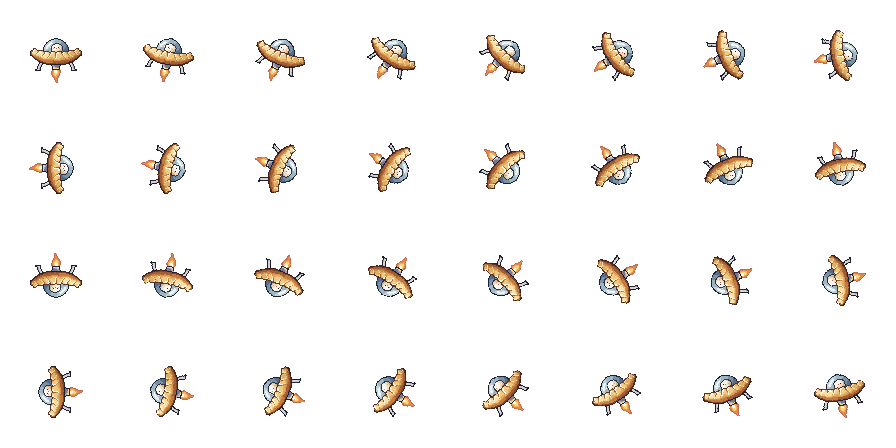
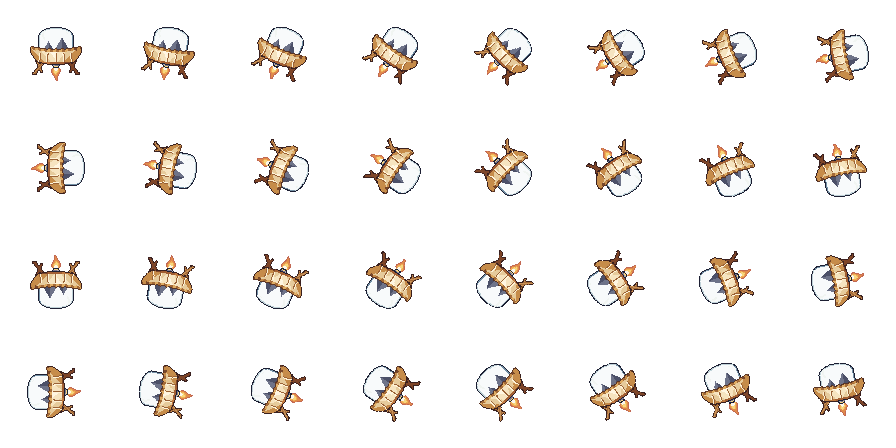
art(ship): v3 hero ship redrawn from the player's original design, refined
- art-src/ship/scripts/draw_ship_v3.py: tall clear glass dome with cockpit peaks, crimped bowl hull, X legs, nozzle stub (same 64x80 / pivot 32,34 contract)
- regenerated 32-angle RotSprite sheets for all 9 frames; memory postcard re-stamped with the new ship
- Tea playtests (soft + bumpy) pass; captures 0 runtime errors

diff --git a/art-src/ship/scripts/draw_ship_v3.py b/art-src/ship/scripts/draw_ship_v3.py
@@ -1,0 +1,320 @@
+"""Hero ship v3: the player's ORIGINAL design (assets/reference/gyoza-ship/default.png), refined.
+
+The v2 rig (draw_ship.py) drifted into a flat crescent saucer with a small dome and a bun pilot.
+v3 returns to the original drawing's silhouette and proportions:
+- a tall, rounded glass dome, about two thirds of the hull width, with a dark cockpit console and
+  two peaked shapes inside, a light inner rim on the upper left, and a crescent glint;
+- a deep bowl-shaped gyoza hull with a crimped tan rim (tips slightly raised), a creamy dough body
+  with pleat marks, and a pan-fried toast belly;
+- splayed diagonal legs crossing in an X on each side, with little feet;
+- a small nozzle stub under the belly.
+It keeps the v2 frame contract: 64x80 art px, saucer centre (pivot) at art (32,34) in every frame,
+hard alpha on the hull, legs and outline, displayed at integer 2x. The glass interior is a faint
+translucent tint, so the sky shows through as it does in the original.
+
+It reuses the v2 helpers (raster, outline, flame, puffs, stars) and replaces only the hull, dome,
+legs and nozzle.
+Usage:  python art-src/ship/scripts/draw_ship_v3.py [--out public/assets/ship] [--art art-src/ship/art]
+"""
+from __future__ import annotations
+
+import argparse
+import math
+import sys
+from dataclasses import replace
+from pathlib import Path
+
+from PIL import Image
+
+sys.path.insert(0, str(Path(__file__).resolve().parent))
+import draw_ship as ds  # noqa: E402
+
+W, H = ds.W, ds.H
+Pose, Layer = ds.Pose, ds.Layer
+hx = ds.hx
+
+OUTLINE = hx("#3A2120")
+RIM_INK = ds.BROWN_INK
+CRUST = ds.CRUST  # 0 lightest .. 6 darkest
+DOUGH = ds.DOUGH
+TOAST = ds.TOAST
+GLASS = ds.GLASS
+PALE = [hx("#FFF6E2"), hx("#F6E4C0"), hx("#E6CB9C")]
+CONSOLE = [hx("#6E7389"), hx("#4C5068"), hx("#353850"), hx("#24263A")]
+WOOD = [hx("#C9935A"), hx("#A46A37"), hx("#7E4528"), hx("#5E3020")]
+
+# ---------------------------------------------------------------- hull (bowl gyoza)
+RX = 27.0  # rim half width (x 5..59)
+RIM_C = -6.5  # rim height at the centre
+RIM_RISE = 3.4  # tips rise above the centre
+BELLY = 9.0  # hull bottom
+CRIMPS = 9
+CRIMP_H = 1.1
+BAND = 3.4  # depth of the tan crimp band below the rim
+
+
+def rim(u: float) -> float:
+    return RIM_C - RIM_RISE * (u / RX) ** 2
+
+
+def crimp(u: float) -> float:
+    period = 2 * RX / CRIMPS
+    phase = ((u + RX) % period) / period
+    return CRIMP_H * math.sin(math.pi * phase) ** 0.7
+
+
+def half_width(v: float) -> float:
+    t = max(0.0, min(1.0, (v - RIM_C) / (BELLY - RIM_C)))
+    hw = RX - 10.5 * t ** 1.35  # convex bowl sides
+    if v > BELLY - 3.5:
+        hw -= (v - (BELLY - 3.5)) ** 2 * 0.9  # rounded belly corners
+    return hw
+
+
+def in_hull(u: float, v: float) -> bool:
+    if v > BELLY or abs(u) > half_width(v):
+        return False
+    top = rim(u) - crimp(u)
+    edge = abs(u) - (RX - 3.5)
+    if edge > 0:
+        top += edge ** 2 * 0.45  # rounded crimped tips
+    return v >= top
+
+
+def draw_hull(pose: Pose) -> Layer:
+    lay = Layer()
+    m = ds.clean_mask(ds.raster(lambda x, y: in_hull(*ds.to_local(x, y, pose))))
+    edge = ds.boundary(m)
+    pleats = (-15.0, -7.5, 0.0, 7.5, 15.0)
+    for (x, y) in m:
+        u, v = ds.to_local(x + 0.5, y + 0.5, pose)
+        depth = v - (rim(u) - crimp(u))
+        if depth < BAND:
+            # crimp band: each scallop lit on its left facet, shaded on its right
+            period = 2 * RX / CRIMPS
+            phase = ((u + RX) % period) / period
+            k = 2 if phase < 0.45 else 4
+            if depth < 1.0:
+                k -= 1  # bright crust lip
+            if u > RX * 0.55:
+                k += 1
+            lay.px[(x, y)] = CRUST[min(6, k + 1)]
+            continue
+        t = (v - RIM_C) / (BELLY - RIM_C)
+        if v > BELLY - 2.6:
+            # pan-fried toast belly, deeper toward the bottom-right
+            k = 1 if u < -6 else (2 if u < 8 else 3)
+            lay.px[(x, y)] = TOAST[k]
+            continue
+        # dough body lit from the top-left
+        side = abs(u) / half_width(v)  # 0 centre .. 1 flank
+        light = 0.9 - side * 1.5 - t * 0.6 - (0.25 if u > 0 else 0.0)
+        k = 0 if light > 0.45 else 1 if light > 0.0 else 2 if light > -0.45 else 3
+        lay.px[(x, y)] = (PALE + [CRUST[4]])[k]
+    # pleat marks (short creases like the original's front marks)
+    for pu in pleats:
+        for v10 in range(int((RIM_C + BAND + 0.6) * 10), int((BELLY - 3.4) * 10), 6):
+            v = v10 / 10
+            bend = 0.10 * (v - RIM_C) * (1 if pu > 0 else -1 if pu < 0 else 0)
+            sx, sy = ds.to_screen(pu + bend, v, pose)
+            if (sx, sy) in m and (sx, sy) not in edge:
+                lay.px[(sx, sy)] = ds.VALLEY
+                if (sx - 1, sy) in m and (sx - 1, sy) not in edge:
+                    lay.px[(sx - 1, sy)] = DOUGH[0]
+    for (x, y) in edge:
+        u, v = ds.to_local(x + 0.5, y + 0.5, pose)
+        lay.px[(x, y)] = RIM_INK if v < rim(u) + 1.5 else OUTLINE
+    return lay
+
+
+# ---------------------------------------------------------------- dome (tall rounded glass)
+DOME_HW = 17.5
+DOME_BASE = -3.5  # hidden behind the crimp band
+DOME_SHOULDER = -20.5
+DOME_CAP = 8.5  # top arc height -> top at v = -29
+
+
+def dome_local(u: float, v: float, pose: Pose) -> tuple[float, float]:
+    """Undo the dome pop (lift + tilt about its base centre)."""
+    v = v + pose.dome_lift
+    a = math.radians(-pose.dome_rot)
+    du, dv = u, v - DOME_BASE
+    return du * math.cos(a) - dv * math.sin(a), du * math.sin(a) + dv * math.cos(a) + DOME_BASE
+
+
+def in_dome(u: float, v: float) -> bool:
+    if v > DOME_BASE:
+        return False
+    if v >= DOME_SHOULDER:
+        return abs(u) <= DOME_HW
+    return (u / DOME_HW) ** 2 + ((v - DOME_SHOULDER) / DOME_CAP) ** 2 <= 1.0
+
+
+def draw_dome(pose: Pose) -> Layer:
+    lay = Layer()
+
+    def local(x: float, y: float) -> tuple[float, float]:
+        return dome_local(*ds.to_local(x, y, pose), pose)
+
+    m = ds.clean_mask(ds.raster(lambda x, y: in_dome(*local(x, y))))
+    outer = ds.boundary(m)
+    inner = ds.boundary(m - outer)
+    for (x, y) in m:
+        u, v = local(x + 0.5, y + 0.5)
+        # console: a dark cockpit deck along the base with two peaked shapes (as in the original)
+        left_peak = v >= -7.0 - 7.5 * max(0.0, 1 - abs(u + 7.5) / 4.6)
+        right_peak = v >= -7.0 - 11.5 * max(0.0, 1 - abs(u - 6.0) / 7.0)
+        if v >= -7.0 or left_peak or right_peak:
+            lit = (left_peak and v < -7.0 and u < -7.0) or (right_peak and v < -7.0 and u < 6.0)
+            k = 0 if lit else (2 if v > -5.0 else 1)
+            lay.px[(x, y)] = CONSOLE[k]
+        else:
+            g = GLASS[2]
+            lay.px[(x, y)] = (g[0], g[1], g[2], 18)  # nearly clear glass; the sky shows through
+    for (x, y) in inner:
+        u, v = local(x + 0.5, y + 0.5)
+        if lay.px[(x, y)][3] == 255:
+            continue  # keep the console colours where they meet the rim
+        lay.px[(x, y)] = GLASS[1] if (u < 2 or v < DOME_SHOULDER - 2) else GLASS[3]
+    for p in outer:
+        lay.px[p] = ds.INK
+    # crescent glint on the upper left and a tiny sparkle on the upper right
+    for i in range(10):
+        v = -26.0 + i * 1.05
+        u = -DOME_HW + 4.2 + 0.055 * (v + 21.5) ** 2
+        for du in (0.0, 0.9):
+            sx, sy = ds.to_screen(*_dome_to_ship(u + du, v, pose), pose)
+            if (sx, sy) in m and (sx, sy) not in outer:
+                lay.px[(sx, sy)] = GLASS[0]
+    for (u, v) in ((10.5, -24.0), (11.5, -23.0)):
+        sx, sy = ds.to_screen(*_dome_to_ship(u, v, pose), pose)
+        if (sx, sy) in m and (sx, sy) not in outer:
+            lay.px[(sx, sy)] = GLASS[0]
+    return lay
+
+
+def _dome_to_ship(u: float, v: float, pose: Pose) -> tuple[float, float]:
+    a = math.radians(pose.dome_rot)
+    du, dv = u, v - DOME_BASE
+    return du * math.cos(a) - dv * math.sin(a), du * math.sin(a) + dv * math.cos(a) + DOME_BASE - pose.dome_lift
+
+
+# ---------------------------------------------------------------- legs (splayed X struts)
+def leg_segments(pose: Pose) -> list[tuple[float, float, float, float, bool]]:
+    s_out = 1.0 + pose.leg_splay * 0.35
+    segs = []
+    for s in (-1.0, 1.0):
+        segs.append((s * 13.0, 6.5, s * 21.5 * s_out, 17.5, True))  # main leg: under the belly, out to the foot
+        segs.append((s * 20.0, 3.0, s * 14.5 * s_out, 15.5, False))  # brace: from the hull flank, crossing inward
+    return segs
+
+
+def draw_legs(pose: Pose) -> Layer:
+    lay = Layer()
+    segs = leg_segments(pose)
+    feet = [(ax2, by2) for (_, _, ax2, by2, main) in segs if main]
+
+    def inside(x: float, y: float) -> bool:
+        u, v = ds.to_local(x, y, pose)
+        for (ax, ay, bx, by, main) in segs:
+            d, t = ds.seg_dist(u, v, ax, ay, bx, by)
+            if d <= (1.9 if main else 1.5) and 0.0 <= t <= 1.0:
+                return True
+        for (fx, fy) in feet:
+            if abs(u - fx) <= 2.6 and fy - 1.0 <= v <= fy + 1.2:
+                return True
+        return False
+
+    m = ds.clean_mask(ds.raster(inside))
+    edge = ds.boundary(m)
+    for (x, y) in m:
+        u, _ = ds.to_local(x + 0.5, y + 0.5, pose)
+        lay.px[(x, y)] = WOOD[0] if (x + y) % 3 == 0 and u < 0 else WOOD[1] if u < 0 else WOOD[2]
+    for p in edge:
+        lay.px[p] = OUTLINE
+    return lay
+
+
+# ---------------------------------------------------------------- nozzle stub (reuses the v2 flame)
+NOZZLE_TOP, NOZZLE_BOT = 8.2, 12.4
+
+
+def nozzle_half_width(v: float) -> float:
+    if v < 9.6:
+        return 3.6
+    if v < 10.4:
+        return 2.2
+    return 2.6 + 1.2 * (v - 10.4) / (NOZZLE_BOT - 10.4)
+
+
+ds.NOZZLE_TOP, ds.NOZZLE_BOT = NOZZLE_TOP, NOZZLE_BOT
+ds.nozzle_half_width = nozzle_half_width
+
+
+def render_ship(pose: Pose) -> Image.Image:
+    return ds.compose([ds.draw_flame(pose), draw_legs(pose), draw_dome(pose), draw_hull(pose), ds.draw_nozzle(pose)])
+
+
+def frames() -> dict[str, Image.Image]:
+    base = Pose()
+    out: dict[str, Image.Image] = {}
+    out["gyoza-idle"] = render_ship(base)
+    out["gyoza-fly-01"] = render_ship(replace(base, flame=1, flicker=0, nozzle_glow=True))
+    out["gyoza-fly-02"] = render_ship(replace(base, flame=2, flicker=1, nozzle_glow=True))
+    out["gyoza-fly-03"] = render_ship(replace(base, flame=3, flicker=2, nozzle_glow=True))
+
+    # incident 1: squash on impact, legs splayed
+    out["gyoza-incident-01"] = render_ship(replace(base, sx=1.08, sy=0.84, leg_splay=1.4))
+
+    # incident 2: dizzy wobble with stars and two crumbs knocked off the rim
+    img = render_ship(replace(base, rot=-9.0))
+    crumbs = ds.blob_layer([(9.0, 22.0, 2.2), (55.0, 19.0, 1.8)], ramp=[CRUST[2], CRUST[3], CRUST[4], CRUST[5], CRUST[6]], outline=OUTLINE)
+    img.alpha_composite(ds.compose([crumbs, ds.star_layer([(14, 4, 2), (33, 1, 1), (50, 4, 2)])]))
+    out["gyoza-incident-02"] = img
+
+    # incident 3: the dome pops up and steam escapes from the rim
+    steam = ds.blob_layer([(11.0, 22.5, 4.8), (15.0, 15.5, 5.0), (53.0, 21.5, 4.8), (49.0, 14.5, 5.2)])
+    ship = render_ship(replace(base, dome_lift=6.0, dome_rot=8.0, rot=2.0))
+    img = Image.new("RGBA", (W, H), (0, 0, 0, 0))
+    img.alpha_composite(ds.compose([steam]))
+    img.alpha_composite(ship)
+    out["gyoza-incident-03"] = img
+
+    # incident 4: puff cloud with crust crumbs (the original's beige blast), feet peeking out
+    legs = ds.compose([draw_legs(replace(base, leg_splay=1.2))])
+    cloud = ds.blob_layer(
+        [(12.0, 34.0, 6.5), (52.0, 33.0, 6.5), (21.0, 23.0, 8.5), (43.0, 22.0, 9.0), (32.0, 17.0, 9.0),
+         (18.0, 38.0, 8.5), (46.0, 38.0, 8.5), (32.0, 31.0, 12.5), (32.0, 42.0, 7.5)],
+    )
+    chunks = ds.blob_layer([(24.0, 27.0, 1.9), (40.0, 25.0, 2.1), (31.0, 37.0, 1.8), (4.0, 44.0, 1.7)], ramp=[CRUST[3], CRUST[4], CRUST[5], CRUST[6], CRUST[6]], outline=OUTLINE)
+    img = Image.new("RGBA", (W, H), (0, 0, 0, 0))
+    img.alpha_composite(legs)
+    img.alpha_composite(ds.compose([cloud, chunks, ds.star_layer([(6, 22, 1), (58, 21, 2), (31, 4, 1)])]))
+    out["gyoza-incident-04"] = img
+
+    # incident 5: the puff breaks into soft drifting lobes
+    puffs = ds.blob_layer(
+        [(13.0, 27.0, 5.8), (18.5, 23.5, 6.2), (44.0, 22.0, 5.4), (50.0, 19.0, 6.4), (21.0, 44.0, 4.2), (26.0, 42.5, 4.8), (46.0, 42.0, 4.6)],
+        outline=ds.PUFF[3], alpha=230, edge_alpha=140,
+    )
+    out["gyoza-incident-05"] = ds.compose([puffs, ds.star_layer([(32, 14, 1), (8, 37, 1), (57, 32, 1), (34, 33, 1)])])
+    return out
+
+
+def main() -> None:
+    ap = argparse.ArgumentParser()
+    ap.add_argument("--out", default="public/assets/ship")
+    ap.add_argument("--art", default="art-src/ship/art")
+    args = ap.parse_args()
+    out_dir, art_dir = Path(args.out), Path(args.art)
+    out_dir.mkdir(parents=True, exist_ok=True)
+    art_dir.mkdir(parents=True, exist_ok=True)
+    for name, img in frames().items():
+        assert img.size == (W, H)
+        img.save(out_dir / f"{name}.png", optimize=True)
+        img.save(art_dir / f"{name}.png", optimize=True)
+        print(name, img.getbbox(), len(img.getcolors(4096) or []), "colours")
+
+
+if __name__ == "__main__":
+    main()

diff --git a/art-src/ship/PROVENANCE.md b/art-src/ship/PROVENANCE.md
@@ -105,3 +105,23 @@ Previews: `preview/r3-idle12-old.png` and `preview/r3-idle12-a.png` (before/afte
 Remaining weak spots: the pilot face is still about 6 px wide (eyes are single pixels). At 33.75
 degrees and above, RotSprite sometimes drops an eye pixel or a pixel of the dome ring. At ship size
 this is an accepted cost of baking rotation offline.
+
+## v3 (2026-10-03): back to the player's original design, refined
+The player asked for the ship to look like their original drawing (`assets/reference/gyoza-ship/default.png`,
+143x128, frames default / fly-1..3 / dmg-1..5), just more refined. The v2 crescent saucer had drifted too far from it.
+`scripts/draw_ship_v3.py` reuses the v2 rig helpers (raster, outline, flame, puffs, stars) and replaces the parts
+with the original's silhouette:
+- a tall rounded glass dome, about 65% of the hull width, kept nearly clear (glass tint alpha 18) so the sky shows
+  through as in the original, with a light inner rim, a crescent glint and the dark cockpit console with its two
+  peaks;
+- a deep convex bowl hull with a raised, crimped tan rim, pale dough with tan flanks, pleat marks and a toast belly;
+- sturdy splayed legs crossing in an X on each side, with feet;
+- a small nozzle stub.
+Same contract as v2: 64x80, pivot (32,34), integer 2x. Incident frames: squash; dizzy tilt with crust crumbs;
+dome pop with steam; beige puff with crust chunks (after the original dmg-4); drifting puffs.
+Commands:
+```
+python art-src/ship/scripts/draw_ship_v3.py
+for f in gyoza-idle gyoza-fly-01..03 gyoza-incident-01..05: python tools/art/rotsprite.py public/assets/ship/$f.png public/assets/ship/rot/$f-rot.png --pivot 32,34 --cell 112 --angles 32 --columns 8
+python art-src/items/scripts/compose_postcard_v4.py art-src/items/raw/postcard-v3.png art-src/items/work/w4/pc-v4-shipv3.png   (re-stamps the memory postcard)
+```
